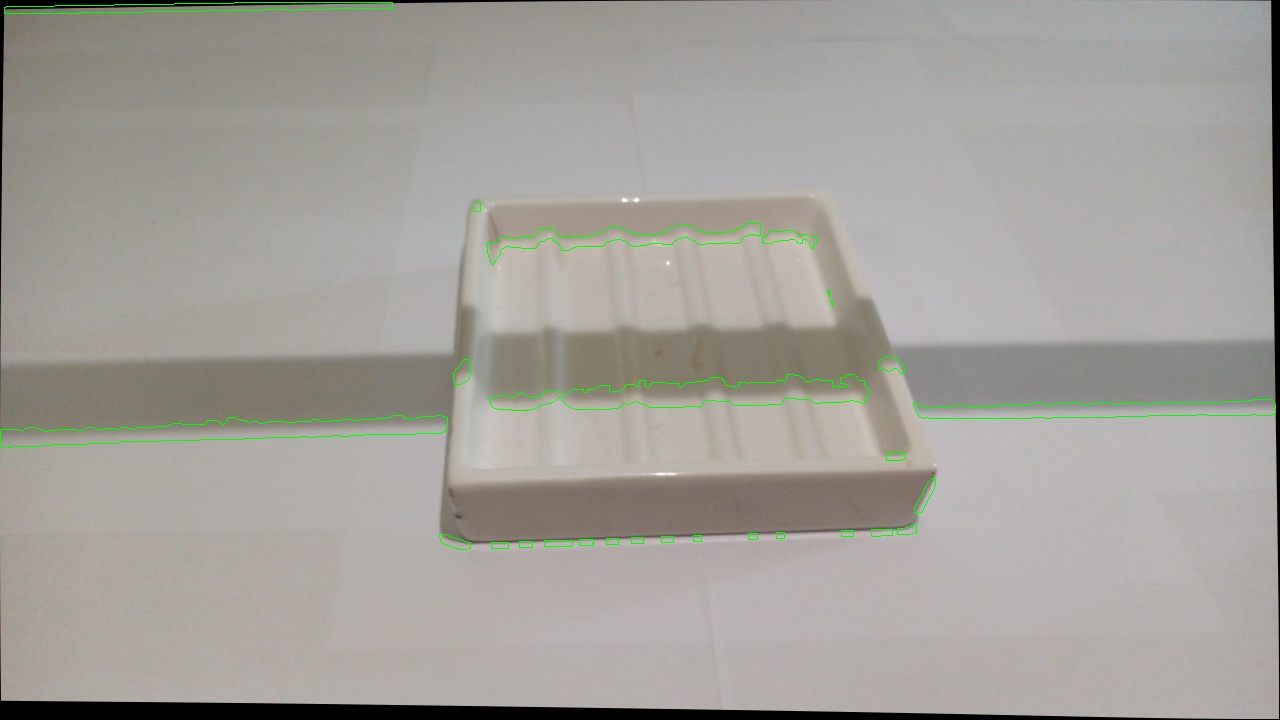
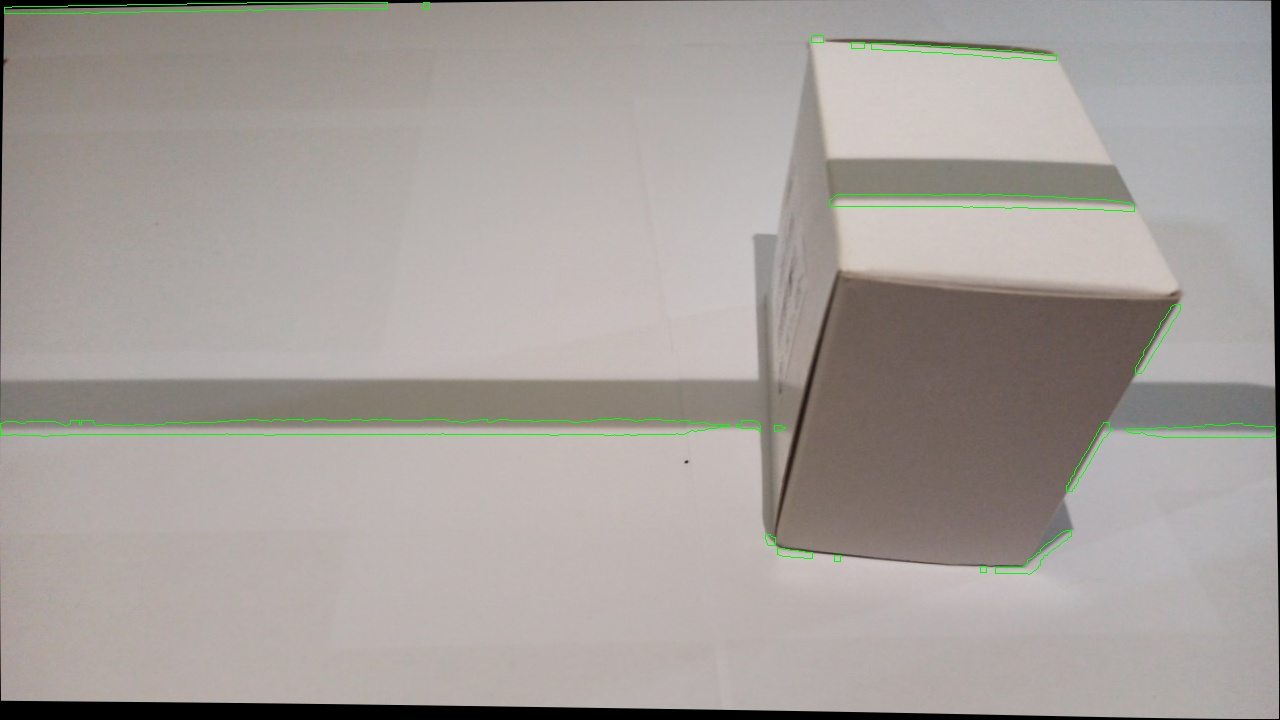
add shadow plane option

Changed region(s): [[0.0, 0.0306, 1.0, 0.825]]

diff --git a/project.py b/project.py
@@ -153,6 +153,8 @@ def main():
     parser.add_argument(
         '-s', '--steps', help='Show the results of the intermediate steps', action='store_true')
     parser.add_argument(
+        '-p', '--plane', help='Calculate shadow plain equation', action='store_true')
+    parser.add_argument(
         '-v2', '--version2', help='Path to image without shadow used in version 2', action='store', type=str)
     parser.add_argument(
         '-i', '--intrinsic', help='Path to intrinsic params file', action='store', type=str)
@@ -172,13 +174,14 @@ def main():
 
     dist, mtx, projection_matrix = camera_position(
         step2Config, pathIntrinsic, step1Config['Chessboard Pattern Size'], step1Config['Chessboard Field Size'], args.steps)
-
-    step3Image = cv2.imread(step3Config['Known Object Image'])
-    step3Image = undistort(step3Image, mtx, dist)
-    sPlane = shadowPlane(
-        step3Config, step3Image, projection_matrix, mtx, dist, args.steps)
-
-    print(sPlane)
+    
+    sPlane = None
+    if args.plane:
+        step3Image = cv2.imread(step3Config['Known Object Image'])
+        step3Image = undistort(step3Image, mtx, dist)
+        sPlane = shadowPlane(
+            step3Config, step3Image, projection_matrix, mtx, dist, args.steps)
+        print(sPlane)
 
     image = cv2.imread(config['Image'])
     image = undistort(image, mtx, dist)
@@ -190,9 +193,12 @@ def main():
         image_no_shadow = cv2.imread(args.version2)
         shadowPoints = getShadowPoints_2(
             image_no_shadow, image, args.steps)
-
-    objectPoints = get3DPoints(
-        shadowPoints, projection_matrix, [-sPlane[0],sPlane[1],-sPlane[2],sPlane[3]])
+    if args.plane:
+        objectPoints = get3DPoints(
+            shadowPoints, projection_matrix, [-sPlane[0],sPlane[1],-sPlane[2],sPlane[3]])
+    else:
+        objectPoints = get3DPoints(
+            shadowPoints, projection_matrix, [0,1,0,150])
 
     counter = 0
     for p in objectPoints:
@@ -217,14 +223,14 @@ def main():
     fig = plt.figure()
     ax = plt.axes()
 
-    p1 = 1
+    p0 = 0
     p2 = 2
 
     for curr, nxt in zip(points, points[1:]):
         distance = math.sqrt(
             ((curr[0]-nxt[0])**2)+((curr[1]-nxt[1])**2)+((curr[2]-nxt[2])**2))
         if distance < DISTANCE_BETWEEN_POINTS:
-            yline = np.linspace(curr[p1], nxt[p1], num=2)
+            yline = np.linspace(curr[p0], nxt[p0], num=2)
             zline = np.linspace(-curr[p2], -nxt[p2], num=2)
 
             ax.plot(yline, zline, 'gray')
